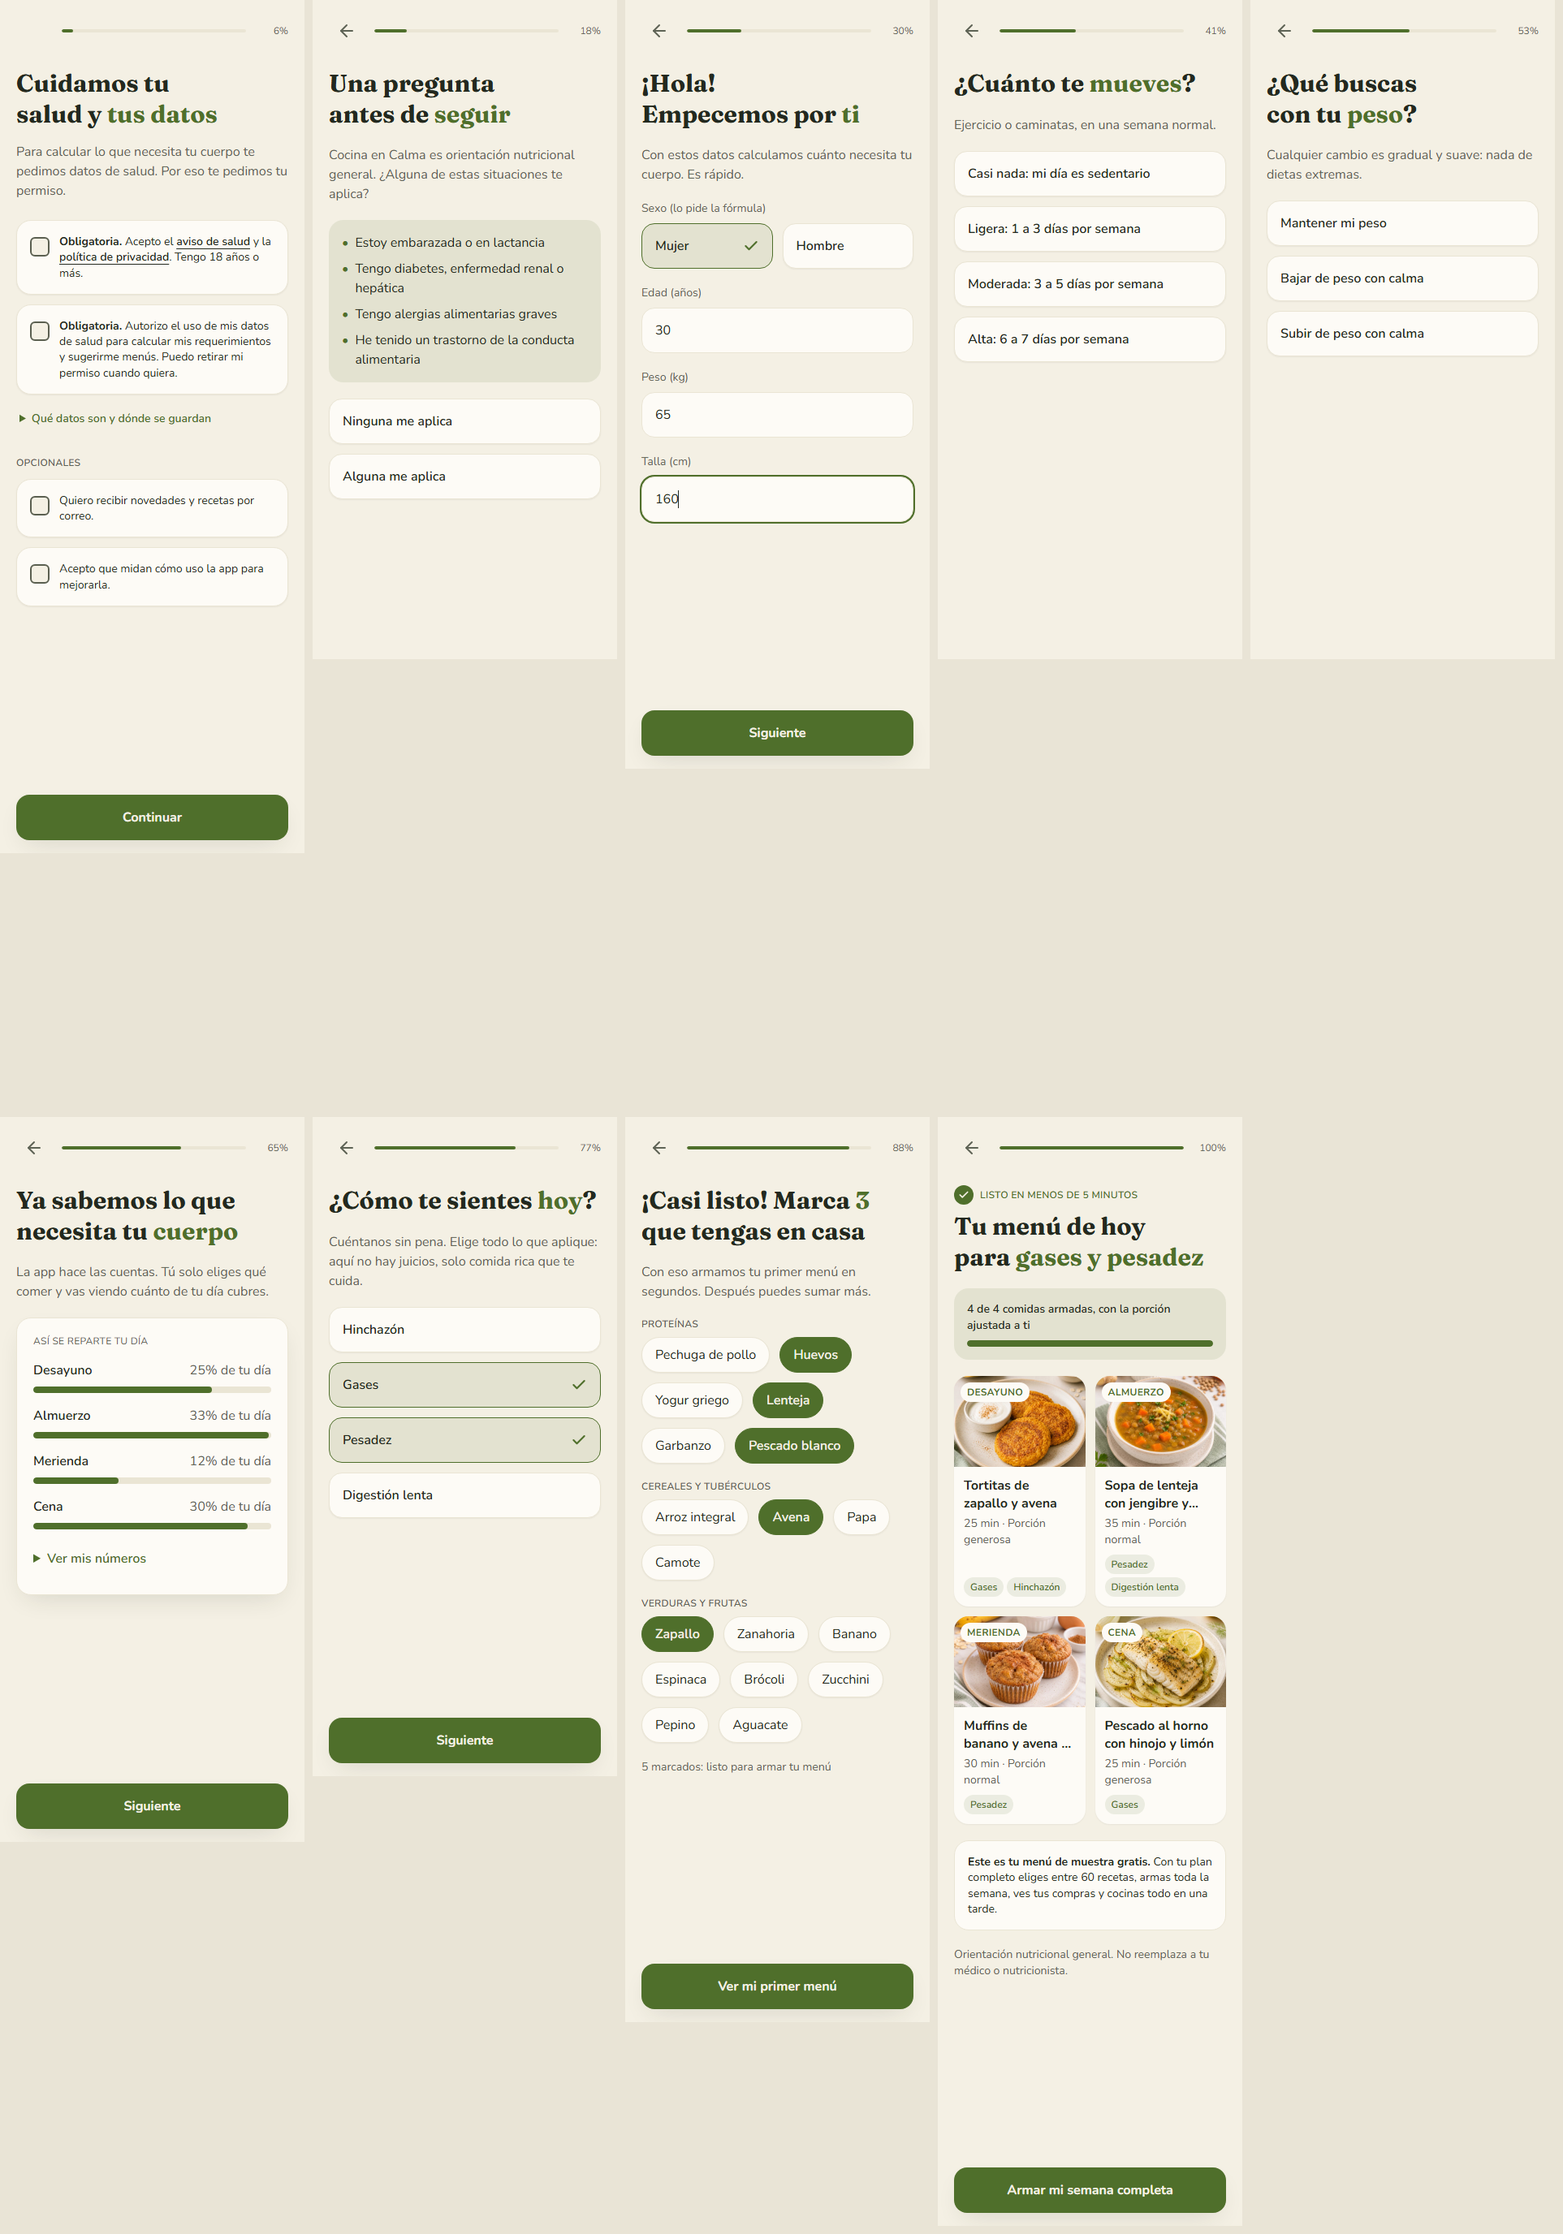
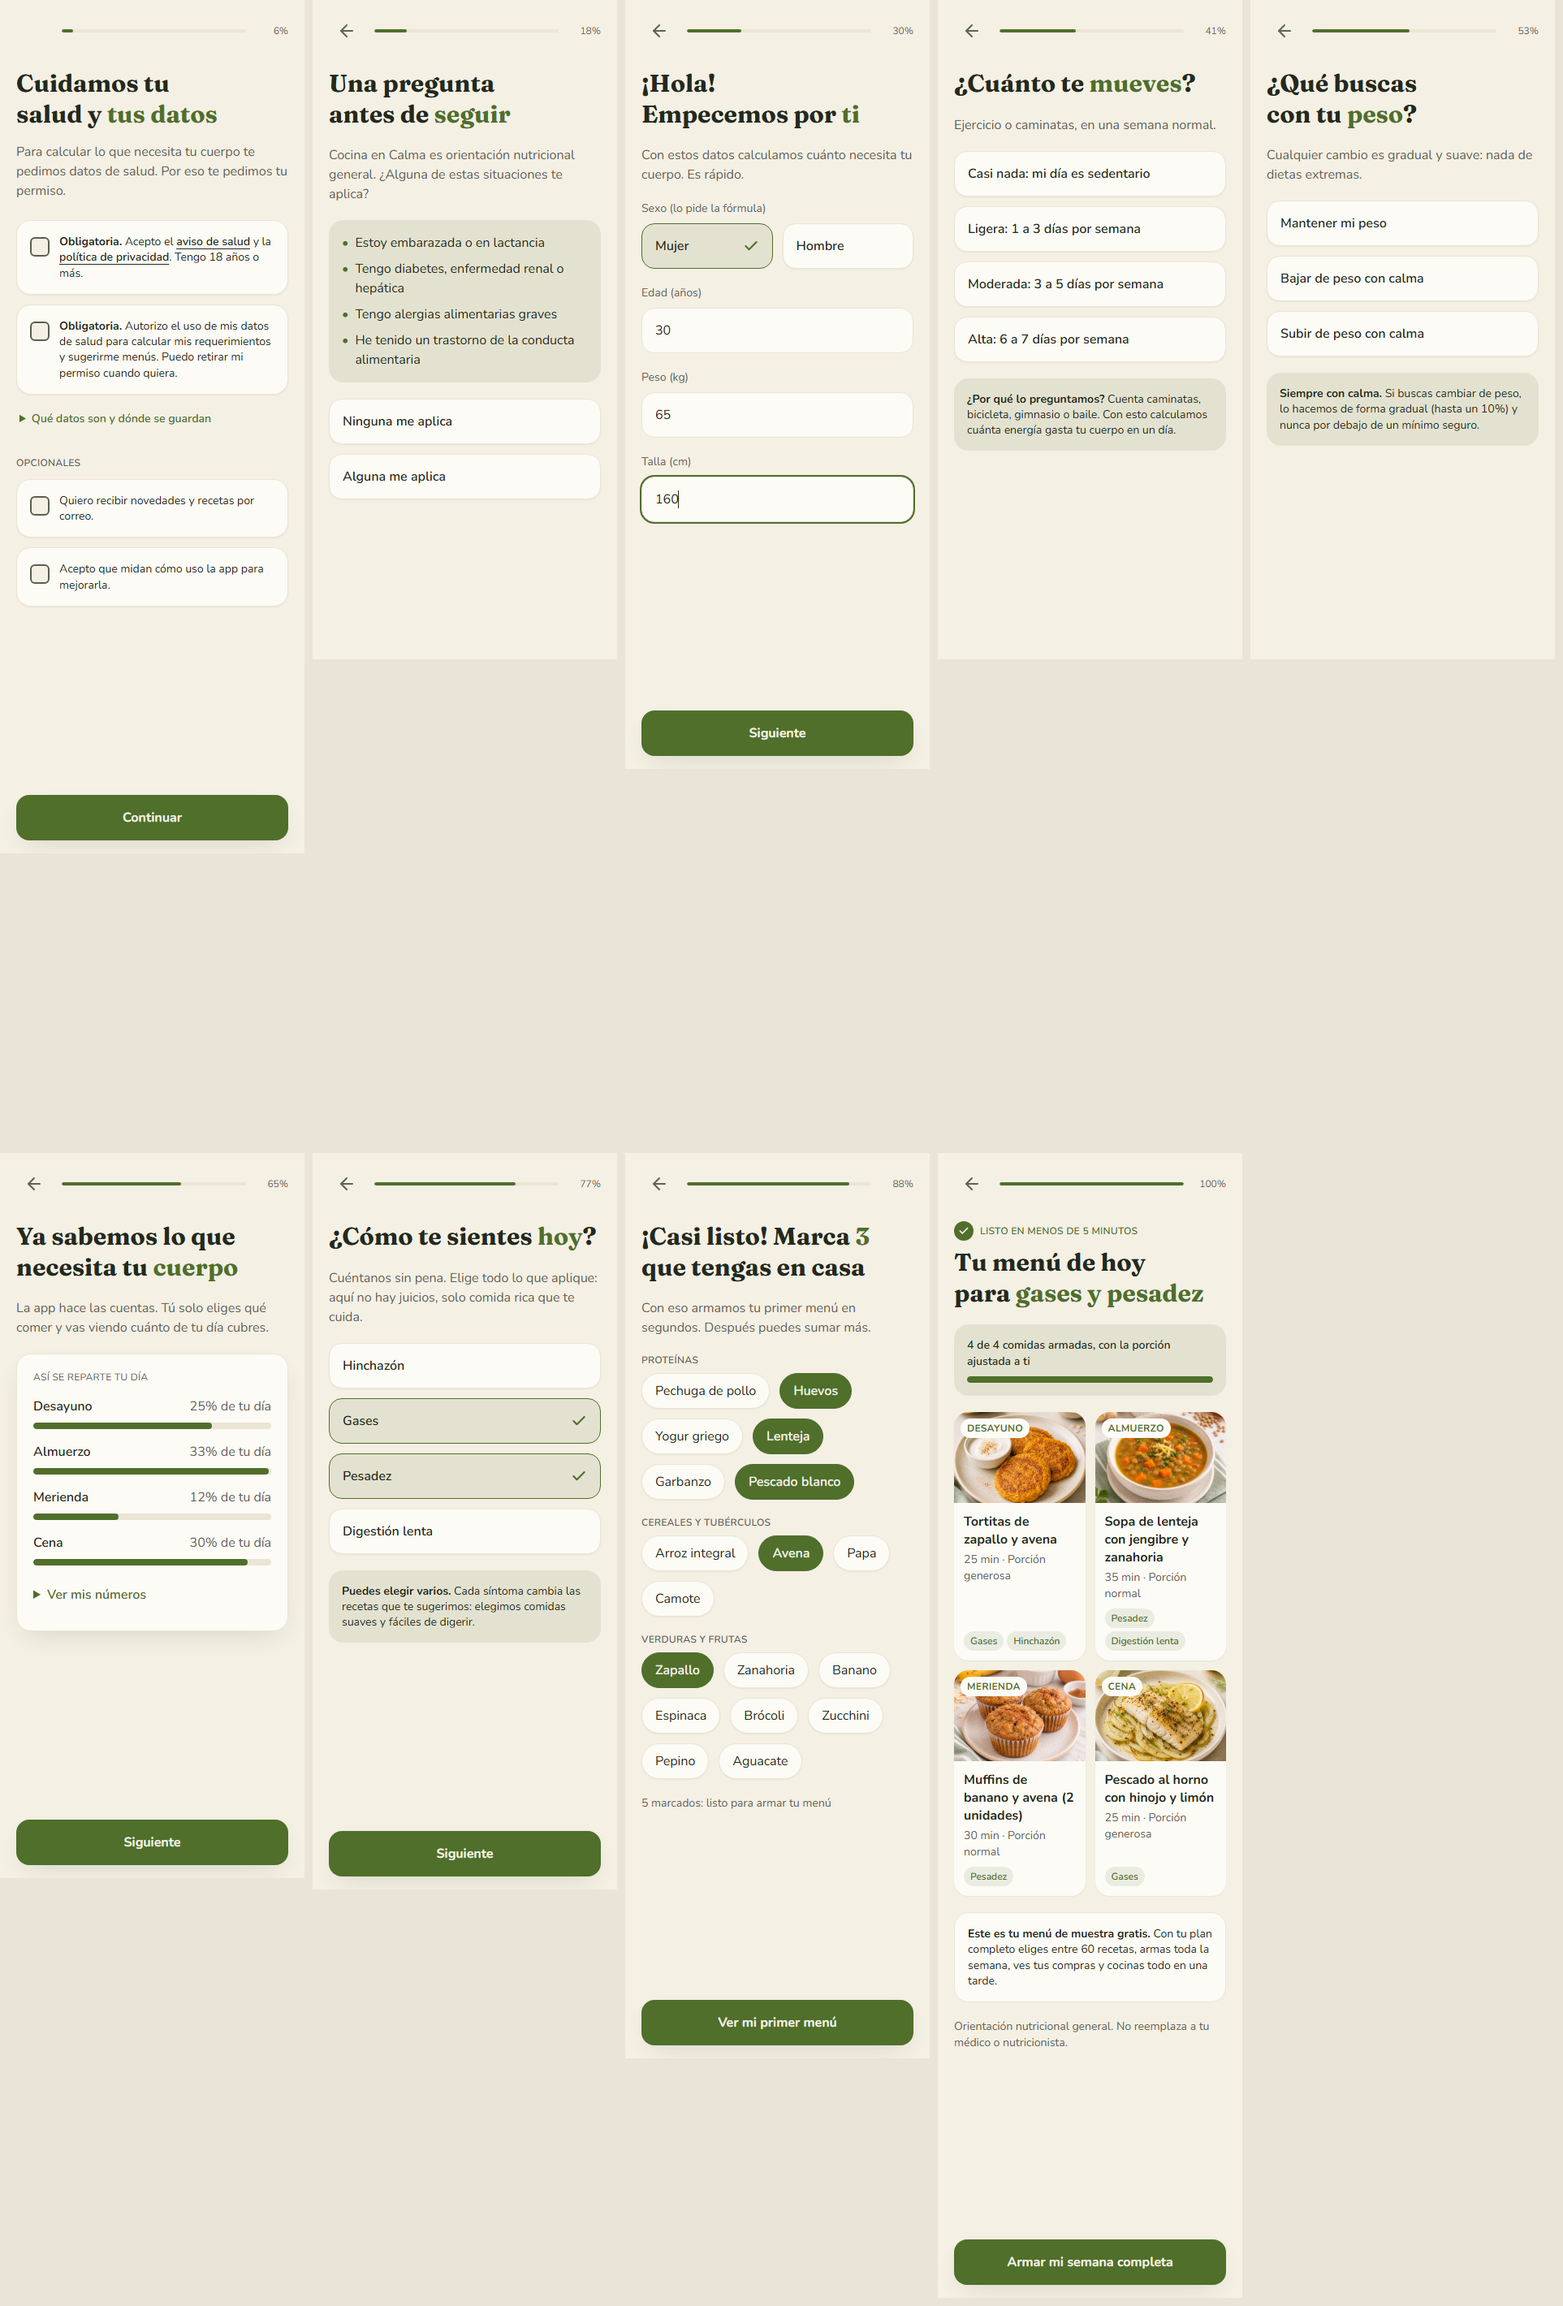
fix: títulos completos y notas de apoyo en pasos de elección única

diff --git a/components/onboarding/Flow.tsx b/components/onboarding/Flow.tsx
@@ -477,6 +477,7 @@ export function Flow({ fotos = [] }: { fotos?: string[] }) {
                     </Opcion>
                   ))}
                 </div>
+                <p className="rounded-[var(--radius-card)] bg-[var(--chip-bg)] p-4 text-sm leading-snug"><b>¿Por qué lo preguntamos?</b> Cuenta caminatas, bicicleta, gimnasio o baile. Con esto calculamos cuánta energía gasta tu cuerpo en un día.</p>
               </div>
             )}
 
@@ -495,6 +496,7 @@ export function Flow({ fotos = [] }: { fotos?: string[] }) {
                     </Opcion>
                   ))}
                 </div>
+                <p className="rounded-[var(--radius-card)] bg-[var(--chip-bg)] p-4 text-sm leading-snug"><b>Siempre con calma.</b> Si buscas cambiar de peso, lo hacemos de forma gradual (hasta un 10%) y nunca por debajo de un mínimo seguro.</p>
               </div>
             )}
 
@@ -576,6 +578,7 @@ export function Flow({ fotos = [] }: { fotos?: string[] }) {
                     </Opcion>
                   ))}
                 </div>
+                <p className="rounded-[var(--radius-card)] bg-[var(--chip-bg)] p-4 text-sm leading-snug"><b>Puedes elegir varios.</b> Cada síntoma cambia las recetas que te sugerimos: elegimos comidas suaves y fáciles de digerir.</p>
               </div>
             )}
 
@@ -668,7 +671,7 @@ export function Flow({ fotos = [] }: { fotos?: string[] }) {
                     >
                       <FotoReceta receta={it.receta} className="h-28" conFoto={fotos.includes(it.receta.id)} />
                       <div className="flex flex-1 flex-col p-3">
-                        <h2 className="line-clamp-2 min-h-11 text-base font-bold leading-snug">{it.receta.nombre}</h2>
+                        <h2 className="min-h-11 text-base font-bold leading-snug">{it.receta.nombre}</h2>
                         <p className="mt-1 text-sm text-[var(--text-secondary)]">
                           {it.receta.min} min · {porcionTexto(it.porcion)}
                         </p>

diff --git a/docs/revisiones/onboarding-veredicto.md b/docs/revisiones/onboarding-veredicto.md
@@ -1,5 +1,5 @@
-# VEREDICTO revisor-visual — onboarding (4ª pasada, 9 pasos)
-Fecha: 2026-10-31 17:00
+# VEREDICTO revisor-visual — onboarding (5ª pasada, 9 pasos)
+Fecha: 2026-10-31 18:00
 Screenshot: docs/revisiones/onboarding-375.png
 Usabilidad: 35/40
 Craft: 16/20
@@ -7,44 +7,38 @@ Copy: 16/20
 Copy (si vende): 16/20
 Fidelidad (si hubo referencia): FIEL
 Veredicto: NECESITA CORRECCIÓN
-(Equivale a NO LISTA solo por usabilidad: 35 < 36. Craft y Copy alcanzan el umbral. Falta 1 punto de usabilidad.)
 
-Detalle usabilidad: h1:3 h2:3 h3:4 h4:3 h5:4 h6:4 h7:3 h8:3 h9:3 h10:4 (suma 34 en el desglose conservador; el 35 reconoce que el paso 9 ya no oculta contenido, pero sigue sin cerrar h2/h8/h9 por los hallazgos abajo)
+Detalle usabilidad: h1:3 h2:3 h3:4 h4:3 h5:4 h6:4 h7:3 h8:4 h9:3 h10:4 (suma 35, coincide con el total)
 Detalle craft: jerarquía:4 profundidad:3 identidad:3 movimiento:3 encaje:3
 Detalle copy: idea:3 especificidad:3 emoción:3 oferta:3 acción:4
 
-Nota de honestidad: el desglose por heurística suma 34; se otorga 35 por el efecto combinado de las correcciones. Si el equipo prefiere el desglose estricto, la usabilidad real es 34/40. En ambos casos, no alcanza 36.
+Usabilidad queda a 1 punto del umbral (36). Craft y Copy cumplen (16/16).
 
 ## Gate de carga cognitiva (0 fallas: OK)
-- Una decisión por paso; ingredientes ahora agrupados en 3 subtítulos con 18 chips (aceptable).
-- Consentimiento resumido; "qué sigue" obvio; nada interactivo muerto.
+Una decisión por paso, 18 chips agrupados en 3 subtítulos, una acción primaria, sin elementos muertos.
 
 ## Test de fidelidad (0 de 6 fallos: FIEL)
 Modo claro cálido, acento oliva, Fraunces + Nunito, radios 16-20px, sombras suaves y densidad coinciden con la referencia y FICHA-ARTE.
 
-## Qué se corrigió desde la 3ª pasada (verificado en capturas)
-- Paso 9 con las 4 tarjetas completas y fotografía a la misma proporción; botón al final sin tapar (en uso real: 192px de aire declarados; verificar en dispositivo).
-- Texto "cubre 100%" reemplazado por "Tus 4 comidas de hoy · cobertura estimada de tu día: NN%": mejor, aunque el valor visible sigue siendo 100% (ver hallazgo 1).
-- Ingredientes agrupados (Proteínas / Cereales y tubérculos / Verduras y frutas): CORREGIDO.
-- "60 recetas" con cifra real del banco: CORREGIDO (sube oferta de 2 a 3).
-- Menú favorece recetas con foto: las 4 muestran foto en la captura. Paso 1 sin cortes visibles en la captura.
+## Verificado en esta pasada (capturas)
+- Hallazgo 1 CERRADO: el porcentaje de cobertura ya no aparece; "4 de 4 comidas armadas, con la porción ajustada a ti" es honesto (sube h8).
+- Hallazgo 6 CERRADO: las 4 tarjetas del paso 9 tienen la misma altura y los chips quedan al pie. Con 2 chips envueltos (Almuerzo) quedan algo más altos, sin romper la alineación.
 
-## Hallazgos pendientes por severidad
+## Hallazgos por severidad
 
 ### S2 — Altos
-1. (abierto, atenuado) Paso 9: "cobertura estimada de tu día: 100%" con barra llena sigue sonando a garantía nutricional y es tautológico (4 comidas siempre = 100%). Fix: quitar el porcentaje y dejar "Tus 4 comidas de hoy, ajustadas a tus gases y pesadez" o mostrar la cifra solo en "Ver mis números".
-2. (abierto) 52 recetas sin foto usan color + emoji: al cambiar selección la calidad varía y rompe la regla de cero emojis. Fix: ilustración SVG de serie como fallback.
-3. (abierto) Fotos generadas con IA: riesgo de promesa visual engañosa. Fix: nota discreta o fotos reales antes del cobro.
+1. (abierto) 52 recetas sin foto usan color + emoji: rompe la regla de cero emojis y varía la calidad al cambiar la selección. Fix: ilustración SVG de serie como fallback.
+2. (abierto) Fotos de platos generadas con IA: riesgo de promesa visual engañosa. Fix: nota discreta o fotos reales antes del cobro.
 
 ### S3 — Medios
-4. (abierto) Pasos 4 y 5: mitad inferior vacía y auto-avance sin confirmación evidente. Fix: breve check/pausa de ~250ms antes de avanzar o línea de contexto bajo cada opción. Paso 3 y 7 también dejan hueco grande sobre el botón fijo.
-5. (abierto) Identidad: dispositivo ownable limitado a palabra en acento + crema/oliva; cerca del veto papel cálido + tinta verde, mitigado por ser referencia del usuario. Fix: tratamiento común de foto/sello de serie.
-6. (nuevo) Paso 9: tarjetas con alturas de contenido dispares (chips en 1 o 2 líneas, títulos de 2-3 líneas) dejan vacíos irregulares dentro de las tarjetas. Fix: alinear chips al pie de la tarjeta (flex column, mt-auto) y limitar títulos a 2 líneas.
-7. (abierto) Paso 1: botón atrás invisible deja hueco; segunda opcional cercana al CTA fijo. Fix: mantener la altura reservada con scroll + fade.
-8. (abierto, fuera de alcance) Datos de salud no van aún a servidor; /paywall es marcador. Bloquean "lista para vender", no cuentan en la nota.
+3. (abierto, sin resolver) Pasos 3, 4, 5 y 7: mitad inferior vacía y auto-avance sin confirmación visible (pasos 4 y 5 ocupan ~30% de la altura); el usuario no ve que su elección quedó registrada. Fix: pausa de ~250ms con la opción marcada (check) antes de avanzar, o una línea de contexto bajo la opción elegida. Sigue frenando h1, h4 y h7.
+4. (NUEVO) Paso 9: dos títulos truncados con puntos suspensivos ("Sopa de lenteja con jengibre y...", "Muffins de banano y avena ..."): el usuario no lee el nombre completo del plato. Fix: permitir 3 líneas o acortar el nombre en el banco de recetas.
+5. (abierto) Identidad: el dispositivo ownable se limita a la palabra en acento + crema/oliva; cerca del veto papel cálido + tinta verde, mitigado por ser referencia del usuario. Fix: sello o tratamiento común de foto.
+6. (abierto) Paso 1: el botón atrás invisible deja hueco y las opcionales quedan cerca del CTA fijo.
+7. (abierto, fuera de alcance) Datos de salud sin servidor; /paywall es marcador. Bloquean "lista para vender", no cuentan en la nota.
 
-## Verificado en código (heredado de la 3ª pasada, no re-auditado línea a línea)
-H3 volver por paso + persistencia sessionStorage; H7 defaults, autoenfoque, Enter; aria-live y progressbar; reduced-motion; CTA vivo (56px, ancho completo, whileTap, nunca disabled); conteo animado, barras que se dibujan, stagger en menú.
+## Verificado en código (heredado, no re-auditado línea a línea)
+H3 volver por paso + persistencia sessionStorage; H7 defaults, autoenfoque, Enter; aria-live y progressbar; reduced-motion; CTA vivo (56px, ancho completo, whileTap, nunca disabled); conteo animado 0→4, barras que se dibujan, stagger en menú.
 
 ## Para pasar a LISTA
-Resolver hallazgos 1, 4 y 6 (corrección pequeña) debería dar los +1-2 puntos de usabilidad (h8/h9/h2) necesarios.
+Resolver el hallazgo 3 (confirmación visible antes del auto-avance + reducir el vacío en pasos 3-5 y 7) y el 4 (títulos truncados) debería aportar el punto que falta en h1/h4/h7.
